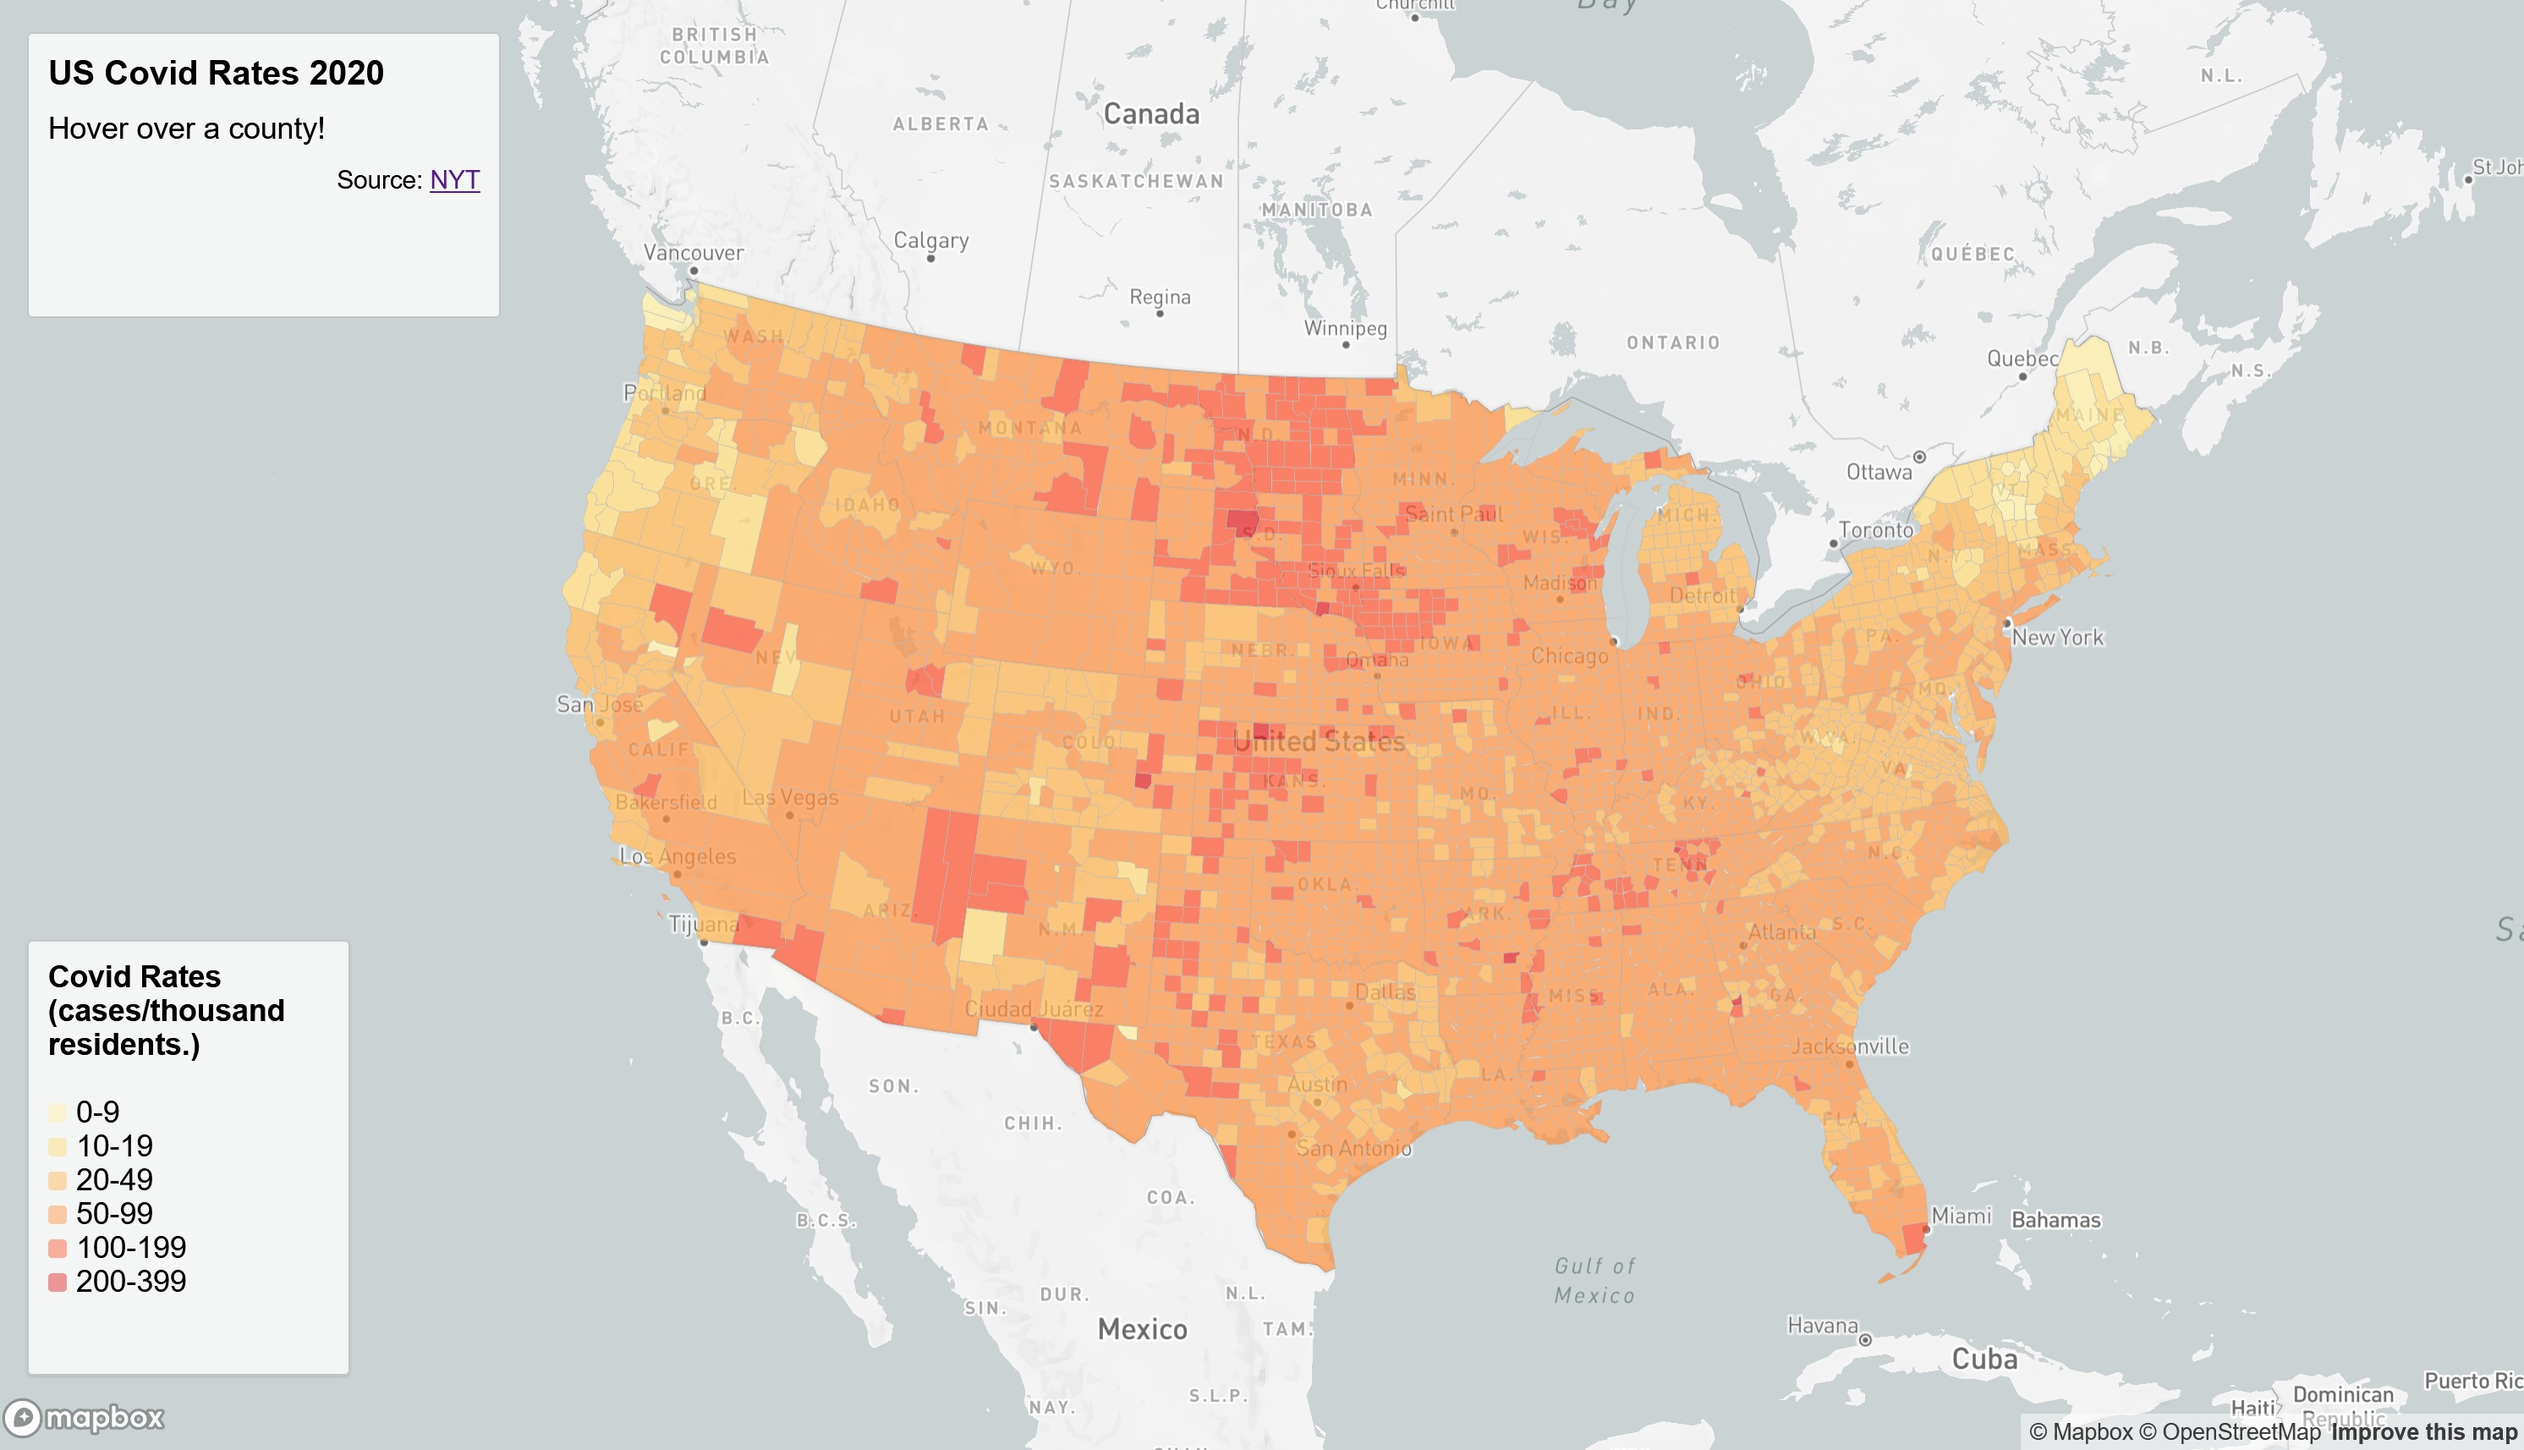
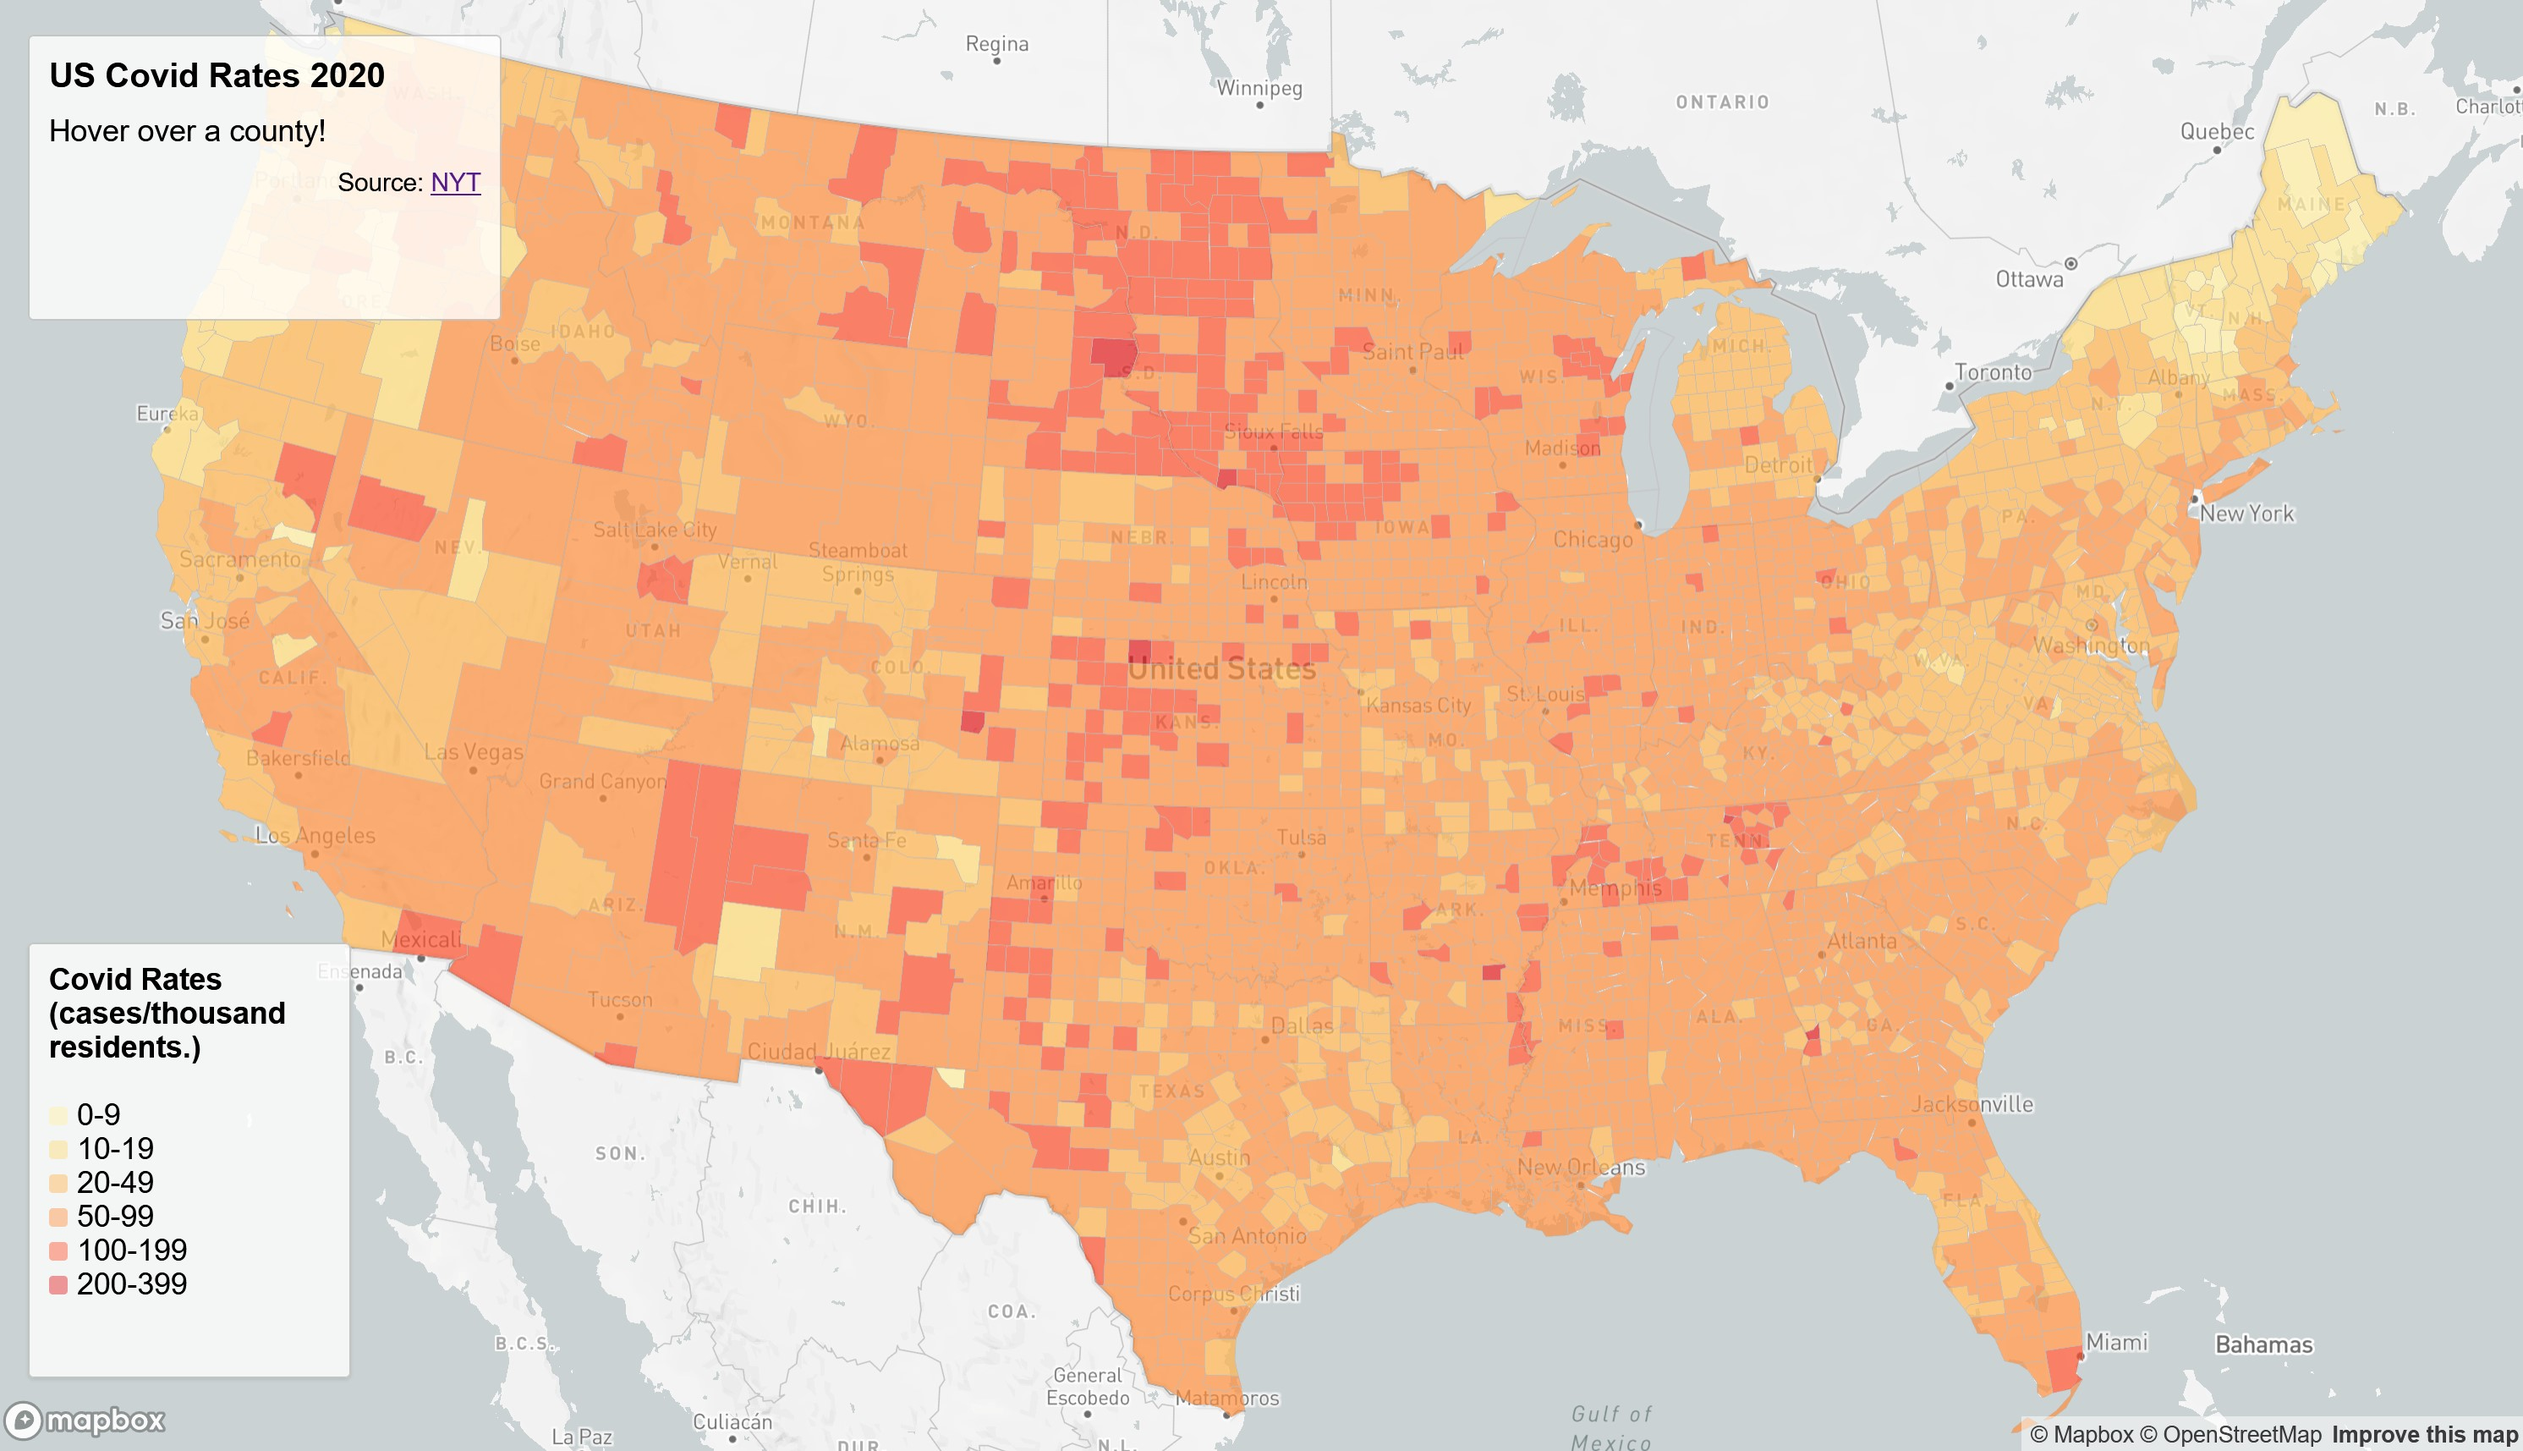
zoom fix

diff --git a/js/main1.js b/js/main1.js
@@ -4,7 +4,7 @@ mapboxgl.accessToken = 'pk.eyJ1IjoiamFrb2J6aGFvIiwiYSI6ImNpcms2YWsyMzAwMmtmbG5ic
                 container: 'map', // container ID
                 style: 'mapbox://styles/mapbox/light-v10', // style URL
                 zoom: 4, // starting zoom
-                center: [-100, 40], // starting center  
+                center: [-97, 38.5], // starting center  
                 projection: 'albers',
             }
         );

diff --git a/README.md b/README.md
@@ -1,6 +1,6 @@
-# Geog 458 Lab 3: Visualizing US Covid Data 2020
+# Geog 458 Lab 3: Mapping US Covid Data 2020
 
-This file will have a brief introduction, links to the map, screenshots, the primary functions (especially the function which was not covered in the lectures), libraries in use, data sources, credit, acknowledgment, and other necessary information. 
+This file will have a brief introduction, links to the map, screenshots, the primary functions, data sources, credit, acknowledgment, and other necessary information. 
 
 ### Introduction
 The Covid-19 virus began to majorly spread in 2020. The US was also greatly affected. This project maps Covid case counts and rates in the mainland US.
@@ -21,6 +21,8 @@ The [New York Times](https://github.com/nytimes/covid-19-data/blob/43d32dde2f87b
 Population data used to calculate Covid case rates was from the [2018 ACS 5-year estimates](https://data.census.gov/cedsci/table?g=0100000US%24050000&d=ACS%205-Year%20Estimates%20Data%20Profiles&tid=ACSDP5Y2018.DP05&hidePreview=true).
 
 US county shapefiles are from the [U.S. Census Bureau](https://www.census.gov/geographies/mapping-files/time-series/geo/carto-boundary-file.html).
+
+[Data](https://github.com/jakobzhao/geog458/tree/master/labs/lab03) was processed by Steven Bao.
 
 [Mapbox Javascript API](https://docs.mapbox.com/mapbox-gl-js/api/) was used to make the maps.
 
